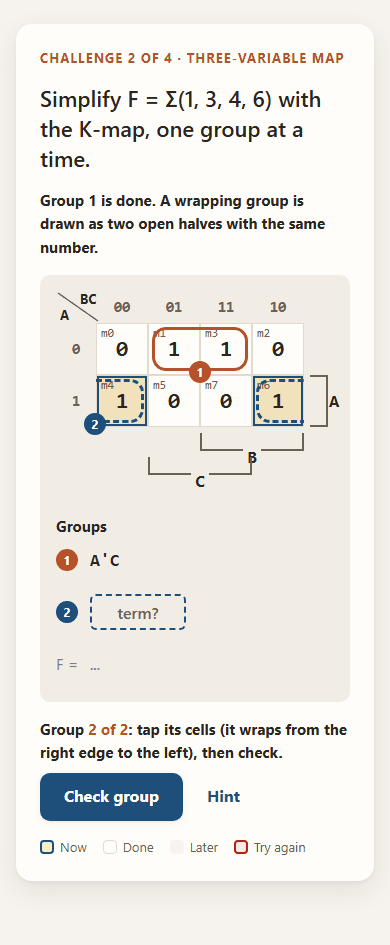
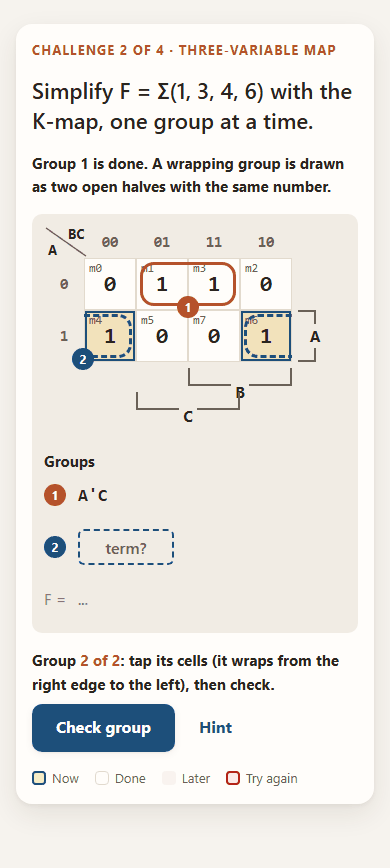
docs(design): build notes for the K-map, timing and state-diagram views (#371)
UX build notes and renders for the remaining three views.

diff --git a/docs/design/ecet111/mockups/kinds-e.html b/docs/design/ecet111/mockups/kinds-e.html
@@ -1,0 +1,3 @@
+<!doctype html><html lang="en"><head><meta charset="utf-8"><meta name="viewport" content="width=device-width,initial-scale=1"><title>K-map, 4 variables</title>
+<link rel="stylesheet" href="../../redesign-r1/mockups/r1.css"><link rel="stylesheet" href="kinds.css"></head><body>
+<main class="stack-6" style="padding-top:var(--space-5)"><section class="stagecard"><p class="eyebrow">Challenge 3 of 4 · Four-variable map</p><p style="font-size:var(--text-lg);font-weight:600;line-height:1.35">Simplify F = Σ(0, 1, 2, 5, 7, 8, 9, 10, 13, 15), one group at a time.</p><p class="goal">Group <b>3 of 3</b>: tap its cells, then check. Groups may wrap around any edge.</p><div class="well"><div class="kmwrap"><div class="km km3 km4" role="grid" aria-label="Four-variable K-map"><svg style="position:absolute;left:0;top:0" width="44" height="32" aria-hidden="true"><path d="M2 2 L40 30" stroke="var(--text-muted)" stroke-width="1.5"/><text x="2" y="29" font-size="13" font-weight="700" fill="var(--text)" font-family="system-ui">AB</text><text x="24" y="12" font-size="13" font-weight="700" fill="var(--text)" font-family="system-ui">CD</text></svg><div class="lab" style="position:absolute;left:calc(var(--lw) + 0 * var(--k));top:0;width:var(--k);height:var(--lh)">00</div><div class="lab" style="position:absolute;left:calc(var(--lw) + 1 * var(--k));top:0;width:var(--k);height:var(--lh)">01</div><div class="lab" style="position:absolute;left:calc(var(--lw) + 2 * var(--k));top:0;width:var(--k);height:var(--lh)">11</div><div class="lab" style="position:absolute;left:calc(var(--lw) + 3 * var(--k));top:0;width:var(--k);height:var(--lh)">10</div><div class="lab" style="position:absolute;left:0;top:calc(var(--lh) + 0 * var(--k));width:var(--lw);height:var(--k)">00</div><div class="lab" style="position:absolute;left:0;top:calc(var(--lh) + 1 * var(--k));width:var(--lw);height:var(--k)">01</div><div class="lab" style="position:absolute;left:0;top:calc(var(--lh) + 2 * var(--k));width:var(--lw);height:var(--k)">11</div><div class="lab" style="position:absolute;left:0;top:calc(var(--lh) + 3 * var(--k));width:var(--lw);height:var(--k)">10</div><div class="c sel" style="position:absolute;left:calc(var(--lw) + 0 * var(--k) + 0px);top:calc(var(--lh) + 0 * var(--k) + 0px);width:calc(1 * var(--k) - 0px);height:calc(1 * var(--k) - 0px)" role="gridcell" aria-label="m0, AB 00, CD 00, value 1"><sup>m0</sup>1</div><div class="c sel" style="position:absolute;left:calc(var(--lw) + 1 * var(--k) + 0px);top:calc(var(--lh) + 0 * var(--k) + 0px);width:calc(1 * var(--k) - 0px);height:calc(1 * var(--k) - 0px)" role="gridcell" aria-label="m1, AB 00, CD 01, value 1"><sup>m1</sup>1</div><div class="c" style="position:absolute;left:calc(var(--lw) + 2 * var(--k) + 0px);top:calc(var(--lh) + 0 * var(--k) + 0px);width:calc(1 * var(--k) - 0px);height:calc(1 * var(--k) - 0px)" role="gridcell" aria-label="m3, AB 00, CD 11, value 0"><sup>m3</sup>0</div><div class="c" style="position:absolute;left:calc(var(--lw) + 3 * var(--k) + 0px);top:calc(var(--lh) + 0 * var(--k) + 0px);width:calc(1 * var(--k) - 0px);height:calc(1 * var(--k) - 0px)" role="gridcell" aria-label="m2, AB 00, CD 10, value 1"><sup>m2</sup>1</div><div class="c" style="position:absolute;left:calc(var(--lw) + 0 * var(--k) + 0px);top:calc(var(--lh) + 1 * var(--k) + 0px);width:calc(1 * var(--k) - 0px);height:calc(1 * var(--k) - 0px)" role="gridcell" aria-label="m4, AB 01, CD 00, value 0"><sup>m4</sup>0</div><div class="c" style="position:absolute;left:calc(var(--lw) + 1 * var(--k) + 0px);top:calc(var(--lh) + 1 * var(--k) + 0px);width:calc(1 * var(--k) - 0px);height:calc(1 * var(--k) - 0px)" role="gridcell" aria-label="m5, AB 01, CD 01, value 1"><sup>m5</sup>1</div><div class="c" style="position:absolute;left:calc(var(--lw) + 2 * var(--k) + 0px);top:calc(var(--lh) + 1 * var(--k) + 0px);width:calc(1 * var(--k) - 0px);height:calc(1 * var(--k) - 0px)" role="gridcell" aria-label="m7, AB 01, CD 11, value 1"><sup>m7</sup>1</div><div class="c" style="position:absolute;left:calc(var(--lw) + 3 * var(--k) + 0px);top:calc(var(--lh) + 1 * var(--k) + 0px);width:calc(1 * var(--k) - 0px);height:calc(1 * var(--k) - 0px)" role="gridcell" aria-label="m6, AB 01, CD 10, value 0"><sup>m6</sup>0</div><div class="c" style="position:absolute;left:calc(var(--lw) + 0 * var(--k) + 0px);top:calc(var(--lh) + 2 * var(--k) + 0px);width:calc(1 * var(--k) - 0px);height:calc(1 * var(--k) - 0px)" role="gridcell" aria-label="m12, AB 11, CD 00, value 0"><sup>m12</sup>0</div><div class="c" style="position:absolute;left:calc(var(--lw) + 1 * var(--k) + 0px);top:calc(var(--lh) + 2 * var(--k) + 0px);width:calc(1 * var(--k) - 0px);height:calc(1 * var(--k) - 0px)" role="gridcell" aria-label="m13, AB 11, CD 01, value 1"><sup>m13</sup>1</div><div class="c" style="position:absolute;left:calc(var(--lw) + 2 * var(--k) + 0px);top:calc(var(--lh) + 2 * var(--k) + 0px);width:calc(1 * var(--k) - 0px);height:calc(1 * var(--k) - 0px)" role="gridcell" aria-label="m15, AB 11, CD 11, value 1"><sup>m15</sup>1</div><div class="c" style="position:absolute;left:calc(var(--lw) + 3 * var(--k) + 0px);top:calc(var(--lh) + 2 * var(--k) + 0px);width:calc(1 * var(--k) - 0px);height:calc(1 * var(--k) - 0px)" role="gridcell" aria-label="m14, AB 11, CD 10, value 0"><sup>m14</sup>0</div><div class="c sel" style="position:absolute;left:calc(var(--lw) + 0 * var(--k) + 0px);top:calc(var(--lh) + 3 * var(--k) + 0px);width:calc(1 * var(--k) - 0px);height:calc(1 * var(--k) - 0px)" role="gridcell" aria-label="m8, AB 10, CD 00, value 1"><sup>m8</sup>1</div><div class="c sel" style="position:absolute;left:calc(var(--lw) + 1 * var(--k) + 0px);top:calc(var(--lh) + 3 * var(--k) + 0px);width:calc(1 * var(--k) - 0px);height:calc(1 * var(--k) - 0px)" role="gridcell" aria-label="m9, AB 10, CD 01, value 1"><sup>m9</sup>1</div><div class="c" style="position:absolute;left:calc(var(--lw) + 2 * var(--k) + 0px);top:calc(var(--lh) + 3 * var(--k) + 0px);width:calc(1 * var(--k) - 0px);height:calc(1 * var(--k) - 0px)" role="gridcell" aria-label="m11, AB 10, CD 11, value 0"><sup>m11</sup>0</div><div class="c" style="position:absolute;left:calc(var(--lw) + 3 * var(--k) + 0px);top:calc(var(--lh) + 3 * var(--k) + 0px);width:calc(1 * var(--k) - 0px);height:calc(1 * var(--k) - 0px)" role="gridcell" aria-label="m10, AB 10, CD 10, value 1"><sup>m10</sup>1</div><div class="grp g1" style="left:calc(var(--lw) + 1 * var(--k) + 4px);top:calc(var(--lh) + 1 * var(--k) + 4px);width:calc(2 * var(--k) - 8px);height:calc(2 * var(--k) - 8px);border-radius:14px 14px 14px 14px;"></div><span class="badge b1" style="left:calc(var(--lw) + 1 * var(--k) + 0px);top:calc(var(--lh) + 1 * var(--k) + 0px)">1</span><div class="grp g2" style="left:calc(var(--lw) + 0 * var(--k) + 7px);top:calc(var(--lh) + 0 * var(--k) + 7px);width:calc(1 * var(--k) - 14px);height:calc(1 * var(--k) - 14px);top:calc(var(--lh) + 0 * var(--k));height:calc(1 * var(--k) - 7px);left:calc(var(--lw) + 0 * var(--k));width:calc(1 * var(--k) - 7px);border-top:0;border-left:0;border-radius:0px 0px 14px 0px;"></div><div class="grp g2" style="left:calc(var(--lw) + 3 * var(--k) + 7px);top:calc(var(--lh) + 0 * var(--k) + 7px);width:calc(1 * var(--k) - 14px);height:calc(1 * var(--k) - 14px);top:calc(var(--lh) + 0 * var(--k));height:calc(1 * var(--k) - 7px);width:calc(1 * var(--k) - 7px);border-top:0;border-right:0;border-radius:0px 0px 0px 14px;"></div><div class="grp g2" style="left:calc(var(--lw) + 0 * var(--k) + 7px);top:calc(var(--lh) + 3 * var(--k) + 7px);width:calc(1 * var(--k) - 14px);height:calc(1 * var(--k) - 14px);height:calc(1 * var(--k) - 7px);left:calc(var(--lw) + 0 * var(--k));width:calc(1 * var(--k) - 7px);border-bottom:0;border-left:0;border-radius:0px 14px 0px 0px;"></div><div class="grp g2" style="left:calc(var(--lw) + 3 * var(--k) + 7px);top:calc(var(--lh) + 3 * var(--k) + 7px);width:calc(1 * var(--k) - 14px);height:calc(1 * var(--k) - 14px);height:calc(1 * var(--k) - 7px);width:calc(1 * var(--k) - 7px);border-bottom:0;border-right:0;border-radius:14px 0px 0px 0px;"></div><span class="badge b2" style="left:calc(var(--lw) + 3 * var(--k) + -4px);top:calc(var(--lh) + 1 * var(--k) + -18px)">2</span><div class="vbar" style="left:calc(var(--lw) + 2 * var(--k));top:calc(var(--lh) + 4 * var(--k) + 6px);width:calc(2 * var(--k))"><span>C</span></div><div class="vbar" style="left:calc(var(--lw) + 1 * var(--k));top:calc(var(--lh) + 4 * var(--k) + 32px);width:calc(2 * var(--k))"><span>D</span></div><div class="hbar" style="left:calc(var(--lw) + 4 * var(--k) + 6px);top:calc(var(--lh) + 2 * var(--k));height:calc(2 * var(--k))"><span>A</span></div><div class="hbar" style="left:calc(var(--lw) + 4 * var(--k) + 34px);top:calc(var(--lh) + 1 * var(--k));height:calc(2 * var(--k))"><span>B</span></div></div><div class="stack-3"><p class="goal">Groups</p><ol class="terms" aria-label="Groups"><li><span class="badge b1">1</span>BD</li><li><span class="badge b2">2</span>B'D'</li><li><span class="badge b3">3</span><span class="muted" style="font-family:var(--font-sans);font-size:var(--text-sm)">4 cells selected</span></li><li class="pend"><span style="font-family:var(--font-sans);font-size:var(--text-sm)">F =</span> …</li></ol></div></div></div><div class="row"><a class="btn btn-primary" href="#">Check group</a><a class="btn btn-quiet" href="#">Clear selection</a><a class="btn btn-quiet" href="#">Hint</a></div><div class="legend"><span><i class="sw active"></i>Now</span><span><i class="sw done"></i>Done</span><span><i class="sw pend"></i>Later</span><span><i class="sw wrong"></i>Try again</span></div></section></main></body></html>

diff --git a/docs/design/ecet111/mockups/kinds.css b/docs/design/ecet111/mockups/kinds.css
@@ -150,7 +150,7 @@ sub { font-size: max(0.7em, 12px); }
 .vbar { height: 18px; border-bottom: 2px solid var(--text-muted); border-left: 2px solid var(--text-muted); border-right: 2px solid var(--text-muted); display: grid; place-items: center; }
 .vbar span { transform: translateY(14px); background: var(--surface-sunk); padding: 0 4px; }
 .hbar { width: 18px; border-top: 2px solid var(--text-muted); border-bottom: 2px solid var(--text-muted); border-right: 2px solid var(--text-muted); display: grid; place-items: center; }
-.hbar span { transform: translateX(16px); }
+.hbar span { transform: translateX(9px); background: var(--surface-sunk); padding: 2px 0; }
 .kmwrap { display: flex; flex-wrap: wrap; gap: var(--space-6); align-items: flex-start; }
 @media (max-width: 640px) { .km3 { --k: 52px; --lw: 40px; } }
 
@@ -169,3 +169,13 @@ sub { font-size: max(0.7em, 12px); }
 
 .pair { display: flex; flex-wrap: wrap; gap: var(--space-6); }
 .km.km3 { display: block; }
+
+/* 4-variable map: two bar tracks on each side; sizes step down at 640 and 359 px */
+.km3.km4 { width: calc(var(--lw) + 4 * var(--k) + 60px); height: calc(var(--lh) + 4 * var(--k) + 62px); }
+@media (max-width: 640px) { .km3.km4 { --k: 48px; --lw: 36px; } .stagecard { padding: var(--space-4); } .well { padding: var(--space-3); } }
+@media (max-width: 359px) {
+  .km3 { --k: 44px; --lw: 32px; }
+  .km3 .c { font-size: var(--text-md); }
+  .stagecard { padding: var(--space-4); }
+  .well { padding: var(--space-3); }
+}

diff --git a/docs/design/ecet111-representations.md b/docs/design/ecet111-representations.md
@@ -14,6 +14,7 @@ at 1280 and 390 px. Examples in the mock-ups are illustrative, not content.
 | `kinds-b-*` | K-map (3 variables, wrapping group) |
 | `kinds-c-*` | Timing diagram · state table · state diagram |
 | `kinds-d-*` | Mux and decoder views |
+| `kinds-e-*` | K-map, 4 variables: four-corner group, top–bottom wrap, overlap (also at 320 px) |
 
 ## 1. Shared grammar for every kind
 - **One goal at a time** (PEDAGOGY.md). A goal line under the prompt names it in words
@@ -154,3 +155,60 @@ Build order follows the course map. Each kind's README links back to its section
 - its 390 and 1280 renders match the sections above
 - a test asserts no text under 12 px and no tappable element under 44 px tall
 - states are distinguishable in grayscale
+
+## 13. Build notes for the K-map, timing and state-diagram views (#235, #238, #240)
+Added before Frontend builds these views. Mock-up: `kinds-e-*` (4-variable map at 1280, 390 and 320 px).
+Where this section and §5–7 differ, this section wins.
+
+### 13.1 K-map view
+- **Cell size `--k`:** 56 px from 641 px up; 52 px (2- and 3-variable) or 48 px (4-variable) at ≤ 640 px.
+  The row-label column is 44 / 36 px and the column-label row 32 px.
+  - A 4-variable map fits a 390 px phone whole.
+  - At 320 px all 16 cells fit; only the row-variable bars on the right need the well's sideways scroll (fade edge).
+- **Variable bars** (where the variable is 1), labelled on the bar line:
+  - 3 variables (A | BC): B under columns 3–4, C under columns 2–3 on a second track, A beside row 2.
+  - 4 variables (AB | CD): C under columns 3–4, D under columns 2–3 on a second track; A beside rows 3–4, B beside rows 2–3 on a second track.
+  - 2 variables (A | B): A beside row 2, B under column 2.
+- **Fill goal:** tap cycles empty → 1 → 0 (→ x when the spec has don't-cares) → empty; keys 1 / 0 / x.
+  - A quiet action **"Fill the rest with 0"** appears once any cell is filled. Placing the 1s (and x's) from Σ is the skill; typing twelve zeros is not. *Pedagogy to confirm.*
+  - "Check map" is enabled when no cell is empty. Wrong: count plus the first wrong cell only (§1).
+- **Group goal:** cells toggle (`aria-pressed`), selected = halo fill plus a 2 px accent inset.
+  - The group list shows the next badge with "n cells selected".
+  - Actions: **Check group** (filled), **Clear selection** (quiet, also Escape), Hint.
+  - Students may find the groups in any order; badges number them in the order found (any minimal cover is accepted).
+  - Wrong: the selection stays, nothing is drawn, the tutor gives the detector's nudge.
+- **Term goal:** the term field sits in the group list beside its badge. It uses the expression entry's field and "Reads as"; the key row offers only the map's variables, `'` and ⌫.
+- **Drawing an accepted group** (a wrapping rectangle of rows × columns on the 4-cycle):
+  - No wrap: one rounded rectangle (radius 14 px), inset from the cell edges.
+  - Wraps left–right or top–bottom: two pieces. Each piece has no border and square corners on the side that touches the map edge, and runs to that edge.
+  - Wraps both ways (four corners): four pieces, each open on its two map-edge sides.
+  - A full row or column of 4 is closed (no wrap needed).
+  - **Inset** = 4 px + 3 px × (group number mod 3), so overlapping outlines never coincide.
+  - **Identity:** badge number first. Line style and colour cycle together: solid `--brand`, dashed `--accent`, dotted `--signal-high`, then the same three colours with the styles rotated. All pieces of one group share one badge.
+  - **Badge:** 22 px, on the top-left corner of the group's first piece in reading order (for an open piece, on its inner corner). If that lands within 20 px of another badge or over a cell's value, use the next corner clockwise.
+- **F goal:** the list's last row becomes "F =" with the full expression field (variables, `'`, `+`, brackets).
+- **Explain slowly / read-only:** the same view; stages are the filled map, then each group with its term, then F. The group being explained has the halo.
+- **Screen reader:** each cell reads "m5, AB 01, CD 01, value 1, in group 2". After a group is accepted the live region says "Group 2 accepted: 4 cells".
+
+### 13.2 Timing-diagram view
+- **Geometry:** one clock period is 64 px (56 px at ≤ 640 px). Each row is 28 px with a 20 px swing; rows are 16 px apart. Lines are 2 px, the student's output 3 px in `--signal-high`. A small "1" and "0" (12 px, muted) mark the levels at the left of each row.
+- **Active edges:** a small triangle on the clock at each active edge, pointing up for rising and down for falling, with the dotted guide. **Edge numbers** 1…n sit under the diagram at 12 px, so "Edge 4" can be found by eye.
+- **Initial value:** printed at the start of each output row ("Q = 0").
+- **Answering:** choose 0 or 1, then **Check edge** (Enter confirms). After a correct answer the trace draws to the next active edge. After a wrong one nothing is drawn.
+- **Several outputs** (two or three flip-flops, #316): one row per output. The goal asks all of them for the same edge, with one labelled 0/1 control per output ("A after edge 4", "B after edge 4") and one Check. A wrong check says how many are wrong and names the first only.
+- **Q' rows**, when the slide shows them, are drawn by the view after each correct answer; they are not asked.
+- **Content rule (for the kind's content test):** an input never changes on an active edge; transitions sit at least a quarter period away, so the value to read is never ambiguous.
+- **Hint rung 5:** a dot on each input row at the active edge, with its value printed.
+- **Scrolling:** the names column stays fixed. The active edge is kept at least one period from the right edge of the well.
+
+### 13.3 State-diagram view
+- **Two modes** (the kind supports both, #239):
+  - *Label mode* (§7): the arrow exists; the student picks its input/output label from chips.
+  - *Next-state mode:* the goal names a source state and an input ("From 01 with x = 1"). The source circle has the halo. The student taps the destination circle (it gets the accent ring), then **Check**. The arrow is then drawn with its label. Arrows not yet answered are not shown at all in this mode.
+- **Layout:** content gives each state a grid position; the view computes the arrows.
+  - Different states: a curve, bent 18 units to its right-hand side, so the two directions between one pair never overlap.
+  - Same state: a loop above the circle (below it for bottom-row states).
+  - Two inputs along the same arrow: one arrow, labels stacked ("0/0" above "1/1").
+- **Size:** circles have a 30-unit radius and labels are 16-unit mono. The diagram never renders below 0.75× (text 12 px, circles 45 px, which is also the tap target in next-state mode). A 4-state diagram is 360 units wide and fits a phone. An 8-state diagram is 2 rows of 4 (about 620 units) and scrolls inside the well on phones, with the active state or arrow scrolled into view.
+- **State table beside the diagram** (≥ 900 px, below it on phones): read-only, as the source the student reads from. Its matching row is highlighted only at hint rung 5.
+- **Screen reader:** the diagram is `role="img"` with a summary of the arrows done so far. In next-state mode the state circles are a `radiogroup` ("Next state: 00, 01, 11, 10").

diff --git a/agents/state/ux_design_engineer.md b/agents/state/ux_design_engineer.md
@@ -1,7 +1,7 @@
 # Current State — UX / Design Engineer
 
-Current assignment: ECET 111 representations for Chapters 2–5 and five-chapter navigation (#198, epic #192).
-Recent important decision: Type prime, preview overbar; K-map groups by outline style + badge, not colour; timing order inputs/clock/outputs; Ch5 parts as topic groups.
+Current assignment: Complete ECET 111 (#192): design specs ahead of Frontend, one verdict per screen PR at 390 and 1280 px.
+Recent important decision: Build notes §13 for K-map, timing and state-diagram views (4-var sizes, wrapped-group drawing, multi-output timing, next-state mode); tutor poses: waist-up in columns, head crop in the strip.
 Blocker: None
-Relevant issue/PR: #198, #192, docs/design/ecet111-representations.md
-Next expected action: Review each new kind PR (truth table, expression, derivation, K-map, timing, state) against its section.
+Relevant issue/PR: #235 K-map view, #238 timing view, #240 state-diagram view, #333, #340, docs/design/ecet111-representations.md
+Next expected action: Verdict on the K-map view PR when Frontend opens it; then timing and state-diagram views; live check of each new Chapter 2–5 screen.
